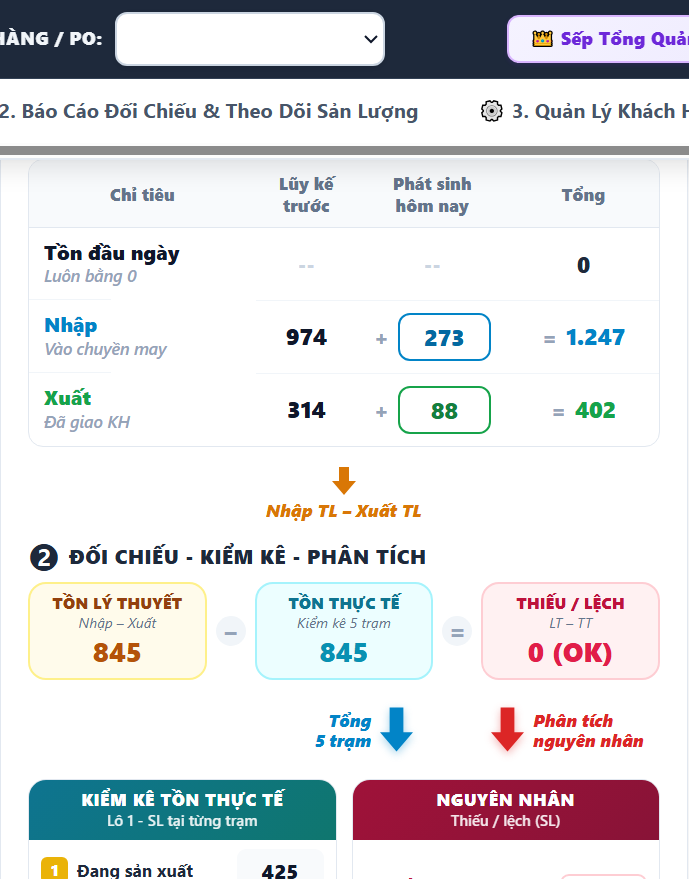
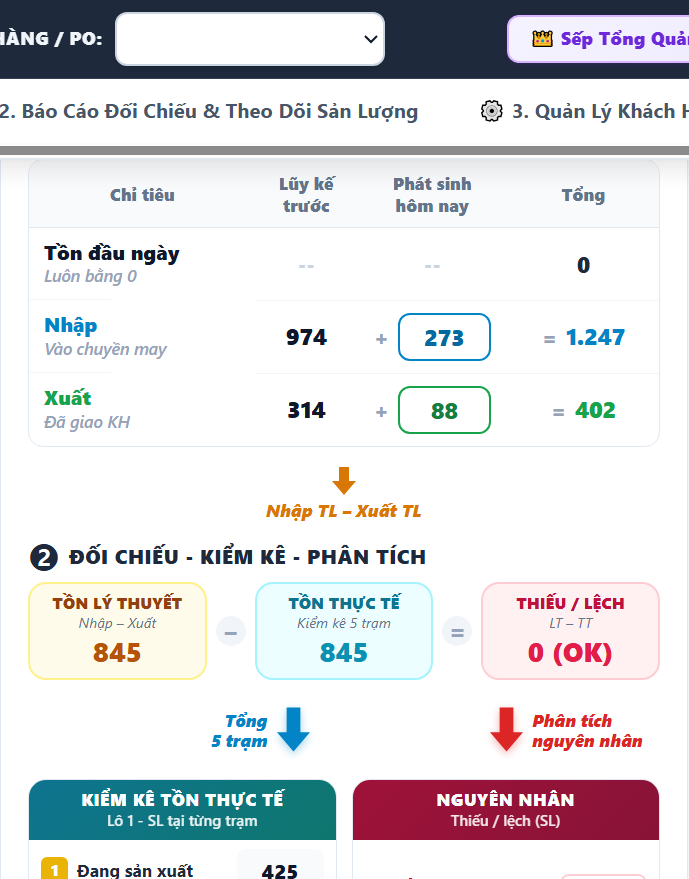
fix(ui): dich chuyen mui ten xanh sang trai de tao diem cham chuan tu O Ton Thuc Te xuong Bang Kiem Ke Ton Thuc Te

Changed region(s): [[0.3048, 0.7986, 0.6096, 0.8601], [0.762, 0.7986, 0.9448, 0.8601]]

diff --git a/frontend/app.js b/frontend/app.js
@@ -833,29 +833,22 @@ function renderReportUI() {
 
         <!-- 5. DUAL ARROW ROW -->
         <div class="h1-dual-arrows-row">
-          <div class="arrow-spacer-1"></div>
-          <div class="arrow-op-spacer"></div>
-          <div class="dual-arrow-cell cell-blue">
-            <div class="arrow-group-blue">
-              <div class="arrow-text-wrap text-blue-wrap">
-                <span>Tổng</span>
-                <span>5 trạm</span>
-              </div>
-              <svg class="h1-arrow-svg h1-arrow-blue" viewBox="0 0 24 32">
-                <path d="M7 0 H17 V18 H24 L12 32 L0 18 H7 Z" />
-              </svg>
+          <div class="dual-arrow-col left-col">
+            <div class="arrow-text-wrap text-blue-wrap">
+              <span>Tổng</span>
+              <span>5 trạm</span>
             </div>
+            <svg class="h1-arrow-svg h1-arrow-blue" viewBox="0 0 24 32">
+              <path d="M7 0 H17 V18 H24 L12 32 L0 18 H7 Z" />
+            </svg>
           </div>
-          <div class="arrow-op-spacer"></div>
-          <div class="dual-arrow-cell cell-red">
-            <div class="arrow-group-red">
-              <svg class="h1-arrow-svg h1-arrow-red" viewBox="0 0 24 32">
-                <path d="M7 0 H17 V18 H24 L12 32 L0 18 H7 Z" />
-              </svg>
-              <div class="arrow-text-wrap text-red-wrap">
-                <span>Phân tích</span>
-                <span>nguyên nhân</span>
-              </div>
+          <div class="dual-arrow-col right-col">
+            <svg class="h1-arrow-svg h1-arrow-red" viewBox="0 0 24 32">
+              <path d="M7 0 H17 V18 H24 L12 32 L0 18 H7 Z" />
+            </svg>
+            <div class="arrow-text-wrap text-red-wrap">
+              <span>Phân tích</span>
+              <span>nguyên nhân</span>
             </div>
           </div>
         </div>

diff --git a/frontend/styles.css b/frontend/styles.css
@@ -3715,43 +3715,27 @@ input[type=number] {
 
 /* Dual Arrow Row */
 .h1-dual-arrows-row {
-  display: flex !important;
-  align-items: center !important;
-  justify-content: space-between !important;
-  gap: 6px !important;
+  display: grid !important;
+  grid-template-columns: 1fr 1fr !important;
+  gap: 10px !important;
   margin: 6px 0 6px 0 !important;
 }
 
-.h1-dual-arrows-row .arrow-spacer-1 {
-  flex: 1 !important;
-}
-
-.h1-dual-arrows-row .arrow-op-spacer {
-  width: 20px !important;
-  flex-shrink: 0 !important;
-}
-
-.h1-dual-arrows-row .dual-arrow-cell {
-  flex: 1 !important;
+.dual-arrow-col {
   display: flex !important;
   align-items: center !important;
   min-width: 0 !important;
 }
 
-.h1-dual-arrows-row .dual-arrow-cell.cell-blue {
+.dual-arrow-col.left-col {
   justify-content: flex-end !important;
-  padding-right: 10px !important;
+  padding-right: 18px !important;
+  gap: 6px !important;
 }
 
-.h1-dual-arrows-row .dual-arrow-cell.cell-red {
+.dual-arrow-col.right-col {
   justify-content: flex-start !important;
-  padding-left: 10px !important;
-}
-
-.arrow-group-blue,
-.arrow-group-red {
-  display: flex !important;
-  align-items: center !important;
+  padding-left: 45% !important;
   gap: 6px !important;
 }
 
